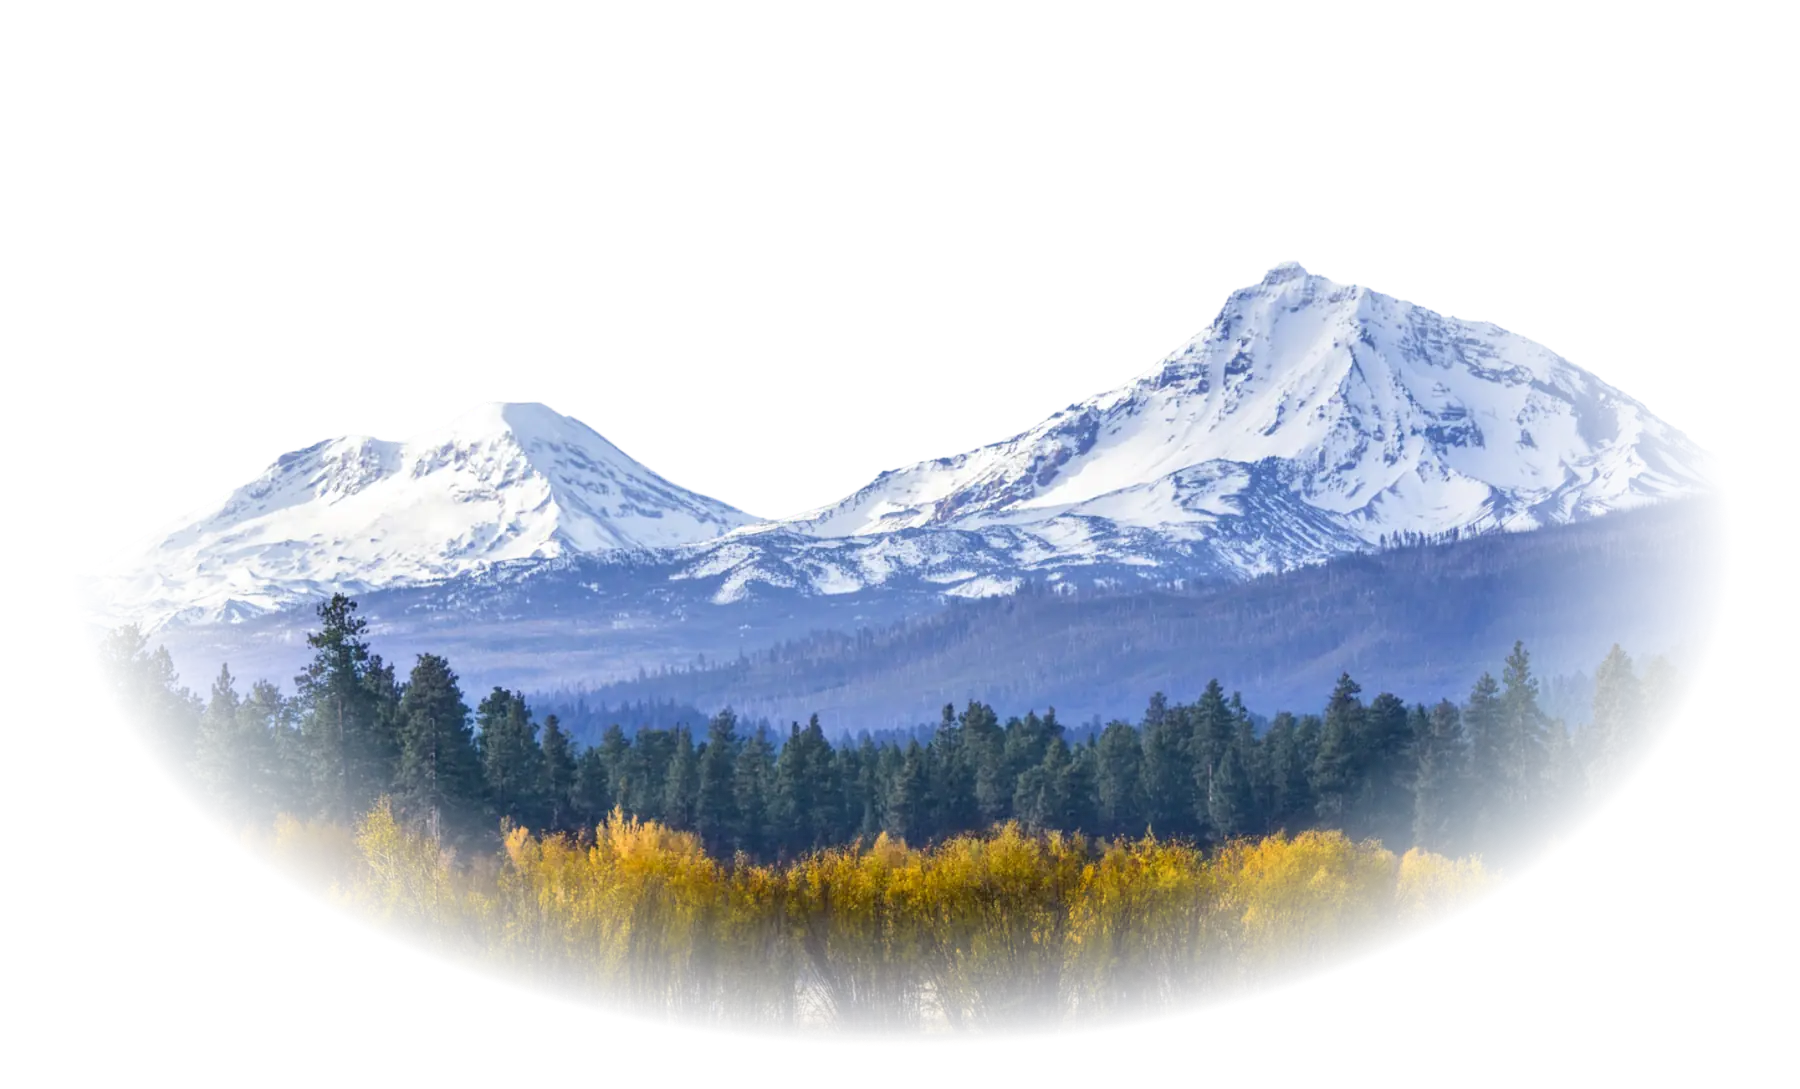
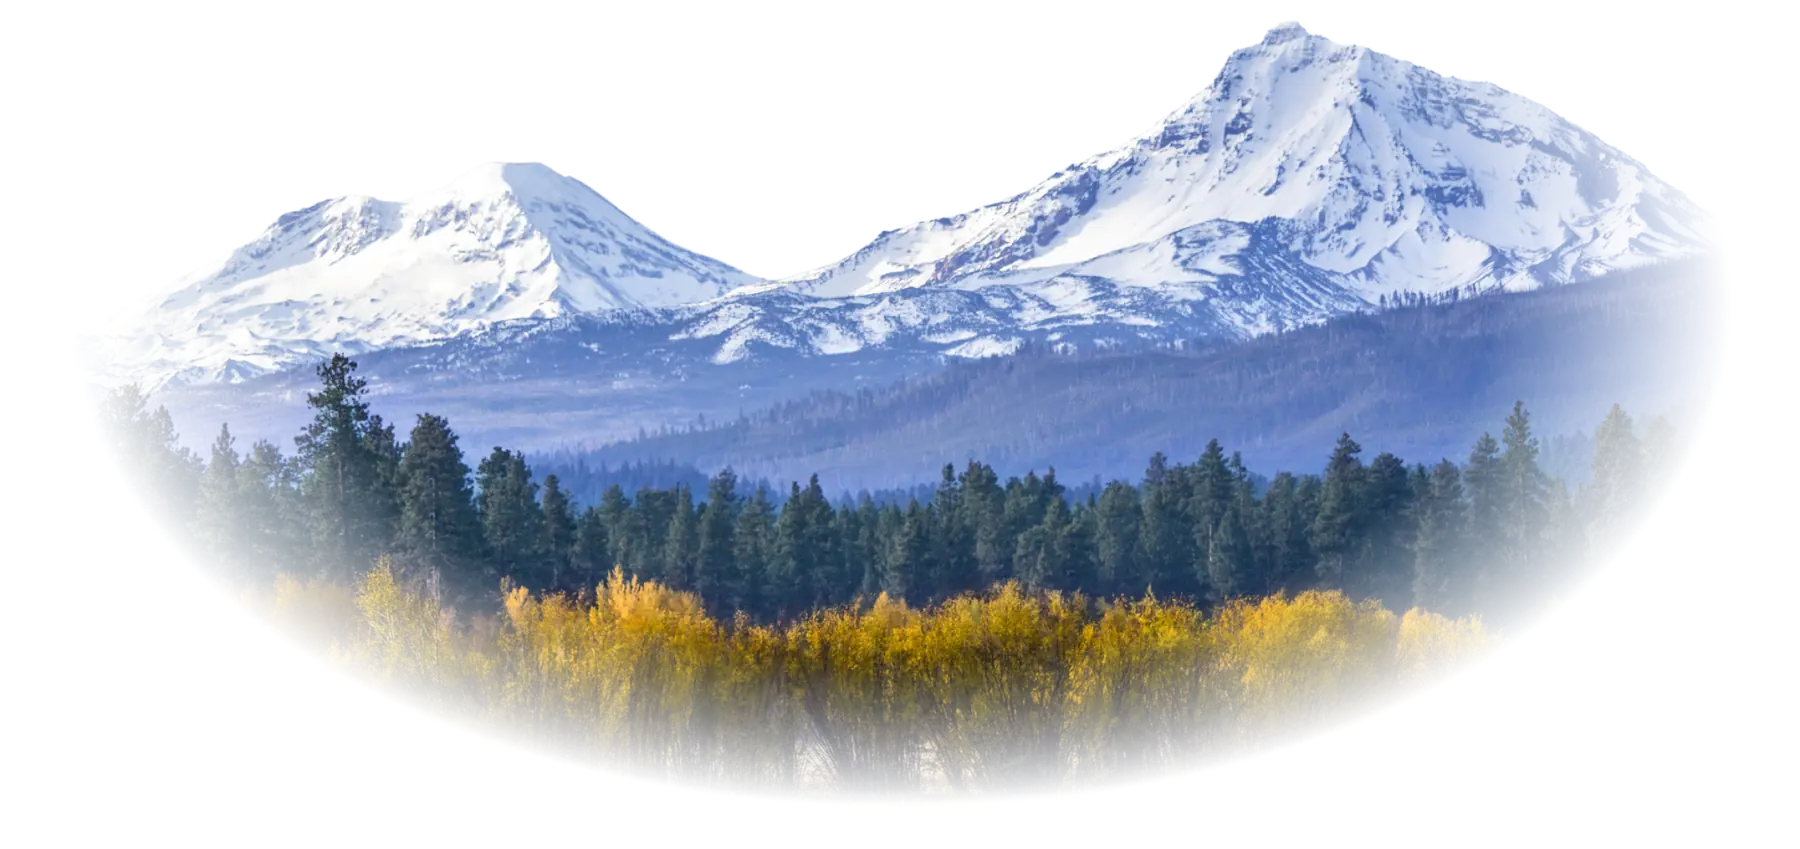
Title page: contain the mountain image, tighten desktop stack
- New static/sisters_title.webp recropped to start at the peaks (no empty
  sky above); rendered at its native aspect (aspect-ratio + height:auto)
  so it is never cropped in either direction — mobile just oversizes the
  width to bleed past the edges, desktop contains it.
- Desktop: head + image + description stack tightly and centre as one
  group; sized to clear the fold.
- Commented out the "download the report" link for now.

Claude-Session: https://claude.ai/code/session_01YSJRjq7UYFK4XupZuXQFY2

diff --git a/src/app.css b/src/app.css
@@ -620,21 +620,23 @@ body.demogs-page .shell{padding-bottom:0}
   margin:10px auto 0;max-width:13em;
 }
 
-/* the Sisters mountain skyline (static/sisters_title.webp — a silhouette
-   that fades out top and bottom). Height-clamped so it can't take over on
-   a tall/wide viewport; object-position:center keeps the band centred
-   within the clamp. On mobile it runs slightly oversized, bleeding a
-   little past the left and right edges. */
+/* the Sisters mountain skyline (static/sisters_title.webp — a ~2.1:1
+   silhouette, cropped so it starts right at the peaks; it fades out at
+   the base on its own). Always rendered at its own aspect (aspect-ratio
+   + height:auto), so it is never cropped in either direction — only its
+   width changes between breakpoints. */
 .titleImg{
-  display:block;width:100%;
-  /* tall enough that object-fit:cover barely has to crop this ~1.65:1
-     source — so the whole silhouette (peaks and base, both of which fade
-     out on their own) stays in frame */
-  height:clamp(240px,64vw,440px);
-  object-fit:cover;object-position:center 58%;
+  display:block;
+  width:100%;margin-inline:auto;
+  aspect-ratio:1800/849;height:auto;
 }
 @media (max-width:659px){
-  .titleImg{width:112%;margin-inline:-6%}
+  /* oversized so it bleeds ~16% past each edge */
+  .titleImg{width:132%;margin-inline:-16%}
+}
+@media (min-width:660px){
+  /* contained and centred on desktop */
+  .titleImg{width:min(68%,620px);margin-top:26px}
 }
 .titleMain{overflow-x:clip}
 
@@ -645,12 +647,12 @@ body.demogs-page .shell{padding-bottom:0}
    head/image; the desktop override below (min-width:660px) cancels that
    grow so this just follows in normal flow instead. */
 .titleBottom{
-  padding:22px 22px 34px;text-align:center;
+  padding:14px 22px 22px;text-align:center;
 }
 .titleBottom p{
-  font-size:17px;line-height:1.5;font-weight:400;
+  font-size:17px;line-height:1.45;font-weight:400;
   color:var(--theme-blue);
-  margin:0 auto 20px;max-width:30em;
+  margin:0 auto 14px;max-width:30em;
 }
 .titleHighlight{color:#E76E50}
 .diveIn{
@@ -663,19 +665,23 @@ body.demogs-page .shell{padding-bottom:0}
 }
 .diveIn:active{transform:scale(.97)}
 .diveSub{
-  display:inline-block;margin-top:14px;font-size:14.5px;
+  display:inline-block;margin-top:11px;font-size:14.5px;
   color:var(--theme-blue);text-decoration:underline;
 }
 @media (min-width:660px){
   /* mobile pins .titleBottom to the viewport bottom via .titleMain's
-     flex:1 grow; desktop instead centers the whole stack (.titleMain +
-     .titleBottom together) as a group in the viewport — flex:none stops
-     .titleMain from eating the extra space, and justify-content:center on
-     the column centers what's left of it. */
+     flex:1 grow; desktop drops that so head + image + description stack
+     tightly together and centre as one group in the viewport (flex:none
+     stops .titleMain eating the slack; justify-content:center on the
+     column places the group). Everything is sized to clear the fold on a
+     laptop-height screen. */
   #l0-title{justify-content:center}
   .titleMain{flex:none}
-  .titleBottom p{font-size:19px}
+  .titleHead{padding:0 22px}
+  .titleBottom{padding:34px 22px 0;text-align:center}
+  .titleBottom p{font-size:19px;line-height:1.5;margin:0 auto 22px;max-width:34em}
   .diveIn{font-size:22px;padding:21px 26px}
+  .diveSub{margin-top:14px}
 }
 
 /* ─────────────────────────────────────────────

diff --git a/index.template.html b/index.template.html
@@ -69,7 +69,7 @@
     <div class="titleBottom">
       <p>Central Oregon Civic Action Project (COCAP) and its partners talked to <span class="titleHighlight">over 400 real Central Oregonians</span> from all over the region to hear what they thought should be done about AI.</p>
       <button class="diveIn" id="diveIn" type="button">Dive In</button>
-      <a class="diveSub" href="static/report.pdf">Or, download the report.</a>
+      <!-- <a class="diveSub" href="static/report.pdf">Or, download the report.</a> -->
     </div>
   </main>
 
